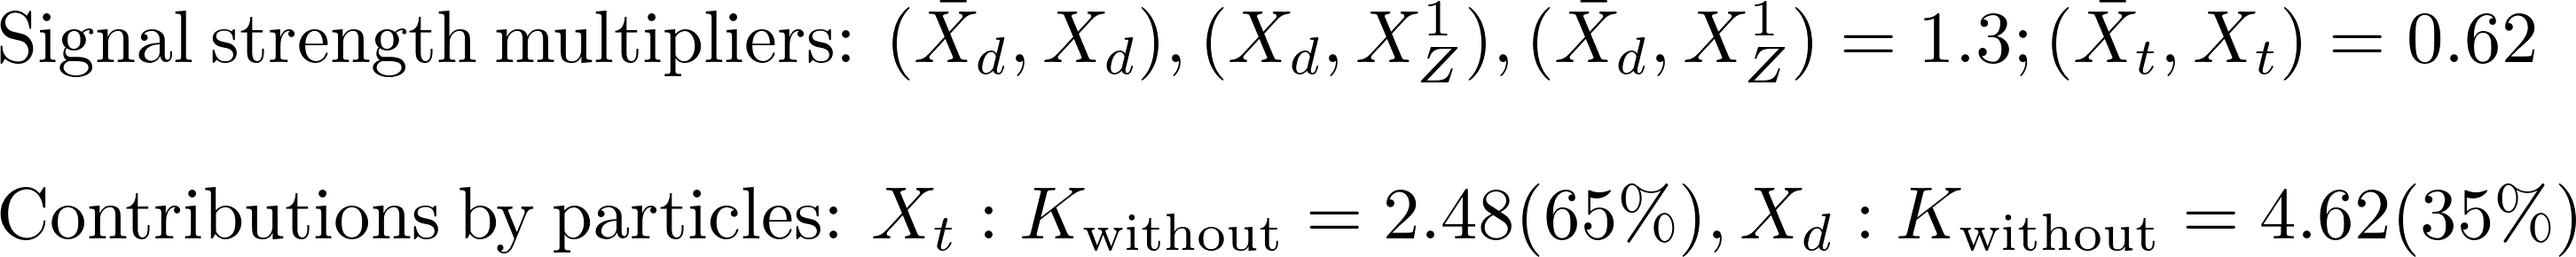
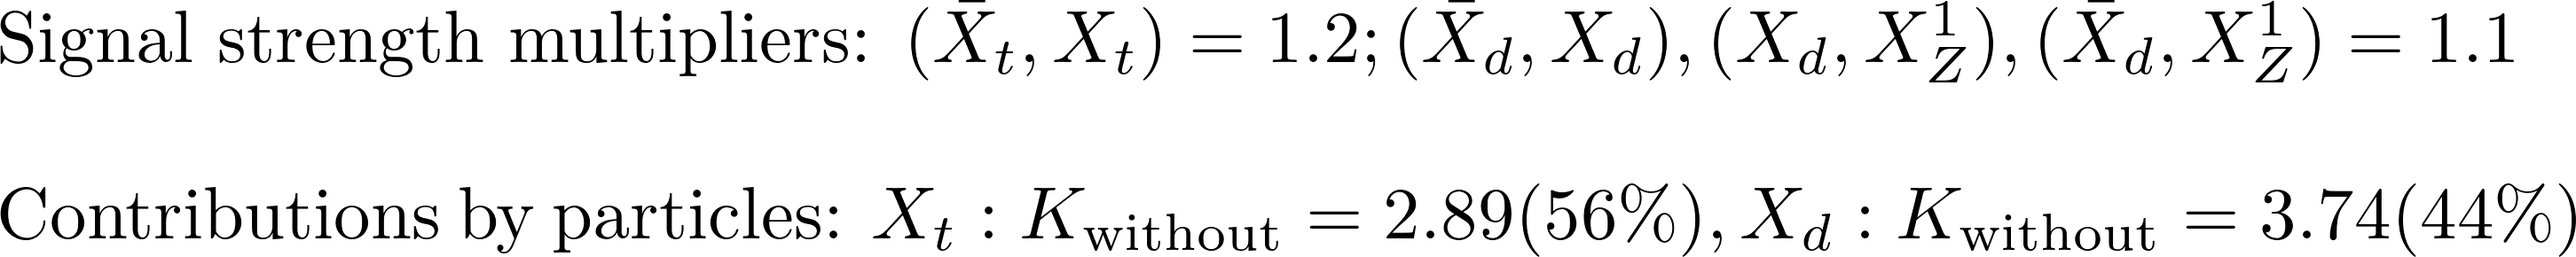
automated update by plotHiscore.py to /scratch-cbe/users/wolfgan.waltenberger/git/smodels.github.io/protomodels/2020_PioneerStudy/real8//

Changed region(s): [[0.062, 0.0, 0.9917, 0.3414], [0.8678, 0.7138, 0.9917, 0.931], [0.5579, 0.7448, 0.6508, 0.931]]

diff --git a/protomodels/2020_PioneerStudy/real8/index.html b/protomodels/2020_PioneerStudy/real8/index.html
@@ -1,31 +1,30 @@
 <html>
 <body>
 <center>
-<table><td><h1>Current best protomodel: K=7.12</h1><td><img height=60px src=https://smodels.github.io/pics/banner.png></table>
+<table><td><h1>Current best protomodel: K=6.79</h1><td><img height=60px src=https://smodels.github.io/pics/banner.png></table>
 </center>
-<b><a href=./hiscore.slha>ProtoModel</a> <a href=./pmodel.py>(dict)</a> produced with <a href=https://smodels.github.io/docs/Validation124>database v1.2.4</a>, combination strategy <a href=./matrix_aggressive.png>aggressive</a> in walker 30 step 208.</b> K plots for: <a href=./M1000022.png?9866509>X<sub>Z</sub><sup>1</sup></a>, <a href=./M1000001.png?9866509>X<sub>d</sub></a>, <a href=./M1000006.png?9866509>X<sub>t</sub></a>. HPD plots for: <a href=./llhd1000001.png?9866509>X<sub>d</sub></a>, <a href=./llhd1000006.png?9866509>X<sub>t</sub></a>. SSM plots for: <a href=./ssm_-1000006_1000006.png?9866509>(x&#772;<sub>t</sub>,X<sub>t</sub>)</a><br>
+<b><a href=./hiscore.slha>ProtoModel</a> <a href=./pmodel.py>(dict)</a> produced with <a href=https://smodels.github.io/docs/Validation124>database v1.2.4</a>, combination strategy <a href=./matrix_aggressive.png>aggressive</a> in walker 28 step 664.</b> K plots for: <a href=./M1000022.png?13243405>X<sub>Z</sub><sup>1</sup></a>, <a href=./M1000006.png?13243405>X<sub>t</sub></a>, <a href=./M1000001.png?13243405>X<sub>d</sub></a>. HPD plots for: <a href=./llhd1000006.png?13243405>X<sub>t</sub></a>, <a href=./llhd1000001.png?13243405>X<sub>d</sub></a>. SSM plots for: <a href=./ssm_-1000006_1000006.png?13243405>(x&#772;<sub>t</sub>,X<sub>t</sub>)</a><br>
 <table width=80%>
 <tr><td>
-<br><b>33 predictions available. Highest r values are:</b><br><ul>
-<li><a href=http://cms-results.web.cern.ch/cms-results/public-results/publications/SUS-19-006/index.html>CMS-SUS-19-006</a>:T2tt r=1.30, r<sub>exp</sub>=0.82<br>
-<li><a href=http://cms-results.web.cern.ch/cms-results/public-results/publications/SUS-16-033/index.html>CMS-SUS-16-033</a>:T2 r=1.20, r<sub>exp</sub>=0.79<br>
-<li><a href=http://cms-results.web.cern.ch/cms-results/public-results/publications/SUS-19-006/index.html>CMS-SUS-19-006</a>:T2 r=1.17, r<sub>exp</sub>=1.04<br>
-<li><a href=http://cms-results.web.cern.ch/cms-results/public-results/publications/SUS-16-036/index.html>CMS-SUS-16-036</a>:T2 r=0.94, r<sub>exp</sub>=0.68<br>
-<li><a href=http://cms-results.web.cern.ch/cms-results/public-results/publications/SUS-16-049/index.html>CMS-SUS-16-049</a>:T2tt r=0.72, r<sub>exp</sub>=0.65<br>
+<br><b>24 predictions available. Highest r values are:</b><br><ul>
+<li><a href=http://cms-results.web.cern.ch/cms-results/public-results/publications/SUS-19-006/index.html>CMS-SUS-19-006</a>:T2 r=1.30, r<sub>exp</sub>=1.12<br>
+<li><a href=http://cms-results.web.cern.ch/cms-results/public-results/publications/SUS-16-033/index.html>CMS-SUS-16-033</a>:T2 r=1.10, r<sub>exp</sub>=0.82<br>
+<li><a href=http://cms-results.web.cern.ch/cms-results/public-results/publications/SUS-19-006/index.html>CMS-SUS-19-006</a>:T2tt r=1.09, r<sub>exp</sub>=1.03<br>
+<li><a href=http://cms-results.web.cern.ch/cms-results/public-results/publications/SUS-16-036/index.html>CMS-SUS-16-036</a>:T2 r=0.80, r<sub>exp</sub>=0.77<br>
+<li><a href=http://cms-results.web.cern.ch/cms-results/public-results/publications/SUS-16-051/index.html>CMS-SUS-16-051</a>:T2tt r=0.79, r<sub>exp</sub>=0.52<br>
 </ul>
 <td><br><b>K values without analyses: (contribution)</b><br>
 <ul>
-<li> <a href=https://twiki.cern.ch/twiki/bin/view/CMSPublic/PhysicsResultsSUS13012>CMS-SUS-13-012</a>: 3.35 (13%)
-<li> <a href=http://cms-results.web.cern.ch/cms-results/public-results/publications/SUS-16-050/index.html>CMS-SUS-16-050</a>: 3.35 (13%)
-<li> <a href=https://atlas.web.cern.ch/Atlas/GROUPS/PHYSICS/PAPERS/SUSY-2013-02/>ATLAS-SUSY-2013-02</a>: 3.27 (13%)
-<li> <a href=https://atlas.web.cern.ch/Atlas/GROUPS/PHYSICS/PAPERS/SUSY-2013-15/>ATLAS-SUSY-2013-15</a>: 2.99 (14%)
-<li> <a href=https://atlas.web.cern.ch/Atlas/GROUPS/PHYSICS/PAPERS/SUSY-2016-16/>ATLAS-SUSY-2016-16</a>: 1.63 (19%)
-<li> <a href=https://atlas.web.cern.ch/Atlas/GROUPS/PHYSICS/PAPERS/SUSY-2016-07/>ATLAS-SUSY-2016-07</a>: -1.07 (28%)
-<td><img width=600px src=./texdoc.png?1602866509>
-<br><font size=-1>Last updated: Fri Oct 16 18:41:49 2020</font>
+<li> <a href=http://cms-results.web.cern.ch/cms-results/public-results/publications/SUS-16-050/index.html>CMS-SUS-16-050</a>: 3.60 (14%)
+<li> <a href=https://twiki.cern.ch/twiki/bin/view/CMSPublic/PhysicsResultsSUS13012>CMS-SUS-13-012</a>: 3.60 (14%)
+<li> <a href=https://atlas.web.cern.ch/Atlas/GROUPS/PHYSICS/PAPERS/SUSY-2013-02/>ATLAS-SUSY-2013-02</a>: 3.55 (14%)
+<li> <a href=https://atlas.web.cern.ch/Atlas/GROUPS/PHYSICS/PAPERS/SUSY-2016-16/>ATLAS-SUSY-2016-16</a>: 1.18 (25%)
+<li> <a href=https://atlas.web.cern.ch/Atlas/GROUPS/PHYSICS/PAPERS/SUSY-2016-07/>ATLAS-SUSY-2016-07</a>: -0.81 (33%)
+<td><img width=600px src=./texdoc.png?1606243405>
+<br><font size=-1>Last updated: Tue Nov 24 19:43:25 2020</font>
 </table><table style="width:80%">
-<td width=45%><img height=580px src=./ruler.png?1602866509><td width=55%><img height=380px src=./decays.png?1602866509>
-<font size=-3><iframe type="text/html" height="220px" width="100%s" frameborder="0" src="./rawnumbers.html?1602866509"></iframe></font>
+<td width=45%><img height=580px src=./ruler.png?1606243405><td width=55%><img height=380px src=./decays.png?1606243405>
+<font size=-3><iframe type="text/html" height="220px" width="100%s" frameborder="0" src="./rawnumbers.html?1606243405"></iframe></font>
 </table>
 </body>
 </html>

diff --git a/protomodels/2020_PioneerStudy/real8/rawnumbers.html b/protomodels/2020_PioneerStudy/real8/rawnumbers.html
@@ -2,9 +2,8 @@
 <tr><th>Analysis Name</th><th>Type</th><th>Dataset</th><th>Topos</th><th>Observed</th><th>Expected</th><th>Approx &sigma;</th><th>Particles</th>
 </tr>
 <tr><td><a href=https://atlas.web.cern.ch/Atlas/GROUPS/PHYSICS/PAPERS/SUSY-2013-02/>ATLAS-SUSY-2013-02</a></td><td>em</td> <td>SR6jtp</td><td>T2</td><td>6</td><td>4.9 +/- 1.6</td><td style="text-align:right">0.4 &sigma;</td><td style="text-align:right">X<sub>d</sub></td></tr>
-<tr><td><a href=https://atlas.web.cern.ch/Atlas/GROUPS/PHYSICS/PAPERS/SUSY-2013-15/>ATLAS-SUSY-2013-15</a></td><td>em</td> <td>tNboost</td><td>T2tt</td><td>5</td><td>3.3 +/- 0.7</td><td style="text-align:right">0.9 &sigma;</td><td style="text-align:right">X<sub>t</sub></td></tr>
 <tr><td><a href=https://atlas.web.cern.ch/Atlas/GROUPS/PHYSICS/PAPERS/SUSY-2016-07/>ATLAS-SUSY-2016-07</a></td><td>em</td> <td>2j_Meff_1200</td><td>T2</td><td>611</td><td>526 +/- 31</td><td style="text-align:right">2.2 &sigma;</td><td style="text-align:right">X<sub>d</sub></td></tr>
-<tr><td><a href=https://atlas.web.cern.ch/Atlas/GROUPS/PHYSICS/PAPERS/SUSY-2016-16/>ATLAS-SUSY-2016-16</a></td><td>em</td> <td>tN_med</td><td>T2tt</td><td>50</td><td>36.3 +/- 6.6</td><td style="text-align:right">1.5 &sigma;</td><td style="text-align:right">X<sub>t</sub></td></tr>
-<tr><td><a href=https://twiki.cern.ch/twiki/bin/view/CMSPublic/PhysicsResultsSUS13012>CMS-SUS-13-012</a></td><td>ul</td> <td>-</td><td>T2</td><td> 49.6 fb </td><td> 30.0 fb</td><td style="text-align:right">1.3 &sigma;</td><td style="text-align:right">X<sub>d</sub></td></tr>
-<tr><td><a href=http://cms-results.web.cern.ch/cms-results/public-results/publications/SUS-16-050/index.html>CMS-SUS-16-050</a></td><td>ul</td> <td>-</td><td>T2tt</td><td> 193.6 fb </td><td> 87.5 fb</td><td style="text-align:right">2.4 &sigma;</td><td style="text-align:right">X<sub>t</sub></td></tr>
+<tr><td><a href=https://atlas.web.cern.ch/Atlas/GROUPS/PHYSICS/PAPERS/SUSY-2016-16/>ATLAS-SUSY-2016-16</a></td><td>em</td> <td>tN_high</td><td>T2tt</td><td>8</td><td>3.8 +/- 1</td><td style="text-align:right">1.9 &sigma;</td><td style="text-align:right">X<sub>t</sub></td></tr>
+<tr><td><a href=https://twiki.cern.ch/twiki/bin/view/CMSPublic/PhysicsResultsSUS13012>CMS-SUS-13-012</a></td><td>ul</td> <td>-</td><td>T2</td><td> 21.0 fb </td><td> 12.8 fb</td><td style="text-align:right">1.3 &sigma;</td><td style="text-align:right">X<sub>d</sub></td></tr>
+<tr><td><a href=http://cms-results.web.cern.ch/cms-results/public-results/publications/SUS-16-050/index.html>CMS-SUS-16-050</a></td><td>ul</td> <td>-</td><td>T2tt</td><td> 4.9 fb </td><td> 2.7 fb</td><td style="text-align:right">1.5 &sigma;</td><td style="text-align:right">X<sub>t</sub></td></tr>
 </table>

diff --git a/protomodels/2020_PioneerStudy/real8/pmodel.py b/protomodels/2020_PioneerStudy/real8/pmodel.py
@@ -1,1 +1,1 @@
-{'masses': {1000022: 413.551, 1000001: 832.602, 1000006: 687.383}, 'ssmultipliers': {(1000022, 1000022): 0.0, (1000001, 1000001): 1.343, (-1000001, 1000001): 1.343, (-1000001, -1000001): 1.343, (1000001, 1000022): 1.343, (-1000001, 1000022): 1.343, (1000006, 1000006): 0.619, (-1000006, 1000006): 0.619, (-1000006, -1000006): 0.619, (1000006, 1000022): 0.619, (-1000006, 1000022): 0.619, (1000001, 1000006): 0.619, (-1000006, 1000001): 0.619, (-1000001, 1000006): 0.619, (-1000006, -1000001): 0.992}, 'decays': {1000022: {}, 1000001: {(1000022, 1): 1.0}, 1000006: {(1000022, 6): 1.0}}, 'timestamp': 'Fri Oct 16 18:41:15 2020', 'Z': 3.266, 'K': 7.12, 'walkerid': 30, 'step': 208, 'codever': '1.0', 'dbver': '1.2.4'}
+{'masses': {1000022: 314.235, 1000006: 1166.709, 1000001: 882.719}, 'ssmultipliers': {(1000022, 1000022): 0.0, (1000006, 1000006): 1.181, (-1000006, 1000006): 1.22, (-1000006, -1000006): 1.181, (1000006, 1000022): 1.181, (-1000006, 1000022): 1.181, (1000001, 1000001): 1.102, (-1000001, 1000001): 1.102, (-1000001, -1000001): 1.102, (1000001, 1000022): 1.102, (-1000001, 1000022): 1.102, (1000001, 1000006): 0.903, (-1000001, 1000006): 0.903, (-1000006, 1000001): 0.903, (-1000006, -1000001): 0.903}, 'decays': {1000022: {}, 1000006: {(1000022, 6): 1.0}, 1000001: {(1000022, 1): 1.0}}, 'timestamp': 'Tue Nov 24 19:43:08 2020', 'Z': 3.215, 'K': 6.789, 'walkerid': 28, 'step': 664, 'codever': '1.0', 'dbver': '1.2.4'}
